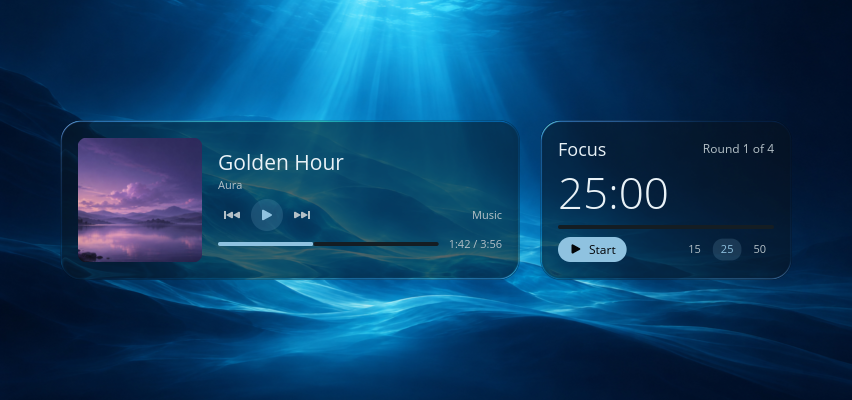
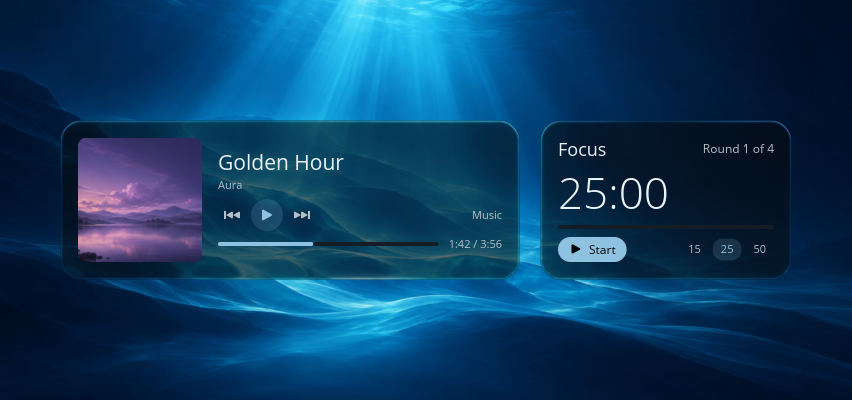
fix(widgets): give Crystal glass a curved, scene-lit edge

diff --git a/src/rain/tests.rs b/src/rain/tests.rs
@@ -1469,6 +1469,96 @@ fn crystal_keeps_music_and_focus_aligned_on_light_and_dark_wallpaper() {
 }
 
 #[test]
+fn crystal_reflects_and_bends_a_wallpaper_stripe_at_each_display_scale() {
+    if std::env::var_os("HALCYON_RAIN_GPU_TEST").is_none() {
+        return;
+    }
+    let (width, height) = (256, 160);
+    // A gold diagonal crosses the left edge at (48, 80). Bending it inward
+    // moves its intersection with a vertical scan line measurably downward.
+    let wallpaper = image::RgbaImage::from_fn(width, height, |x, y| {
+        if (y as i32 - x as i32 - 32).abs() <= 2 {
+            image::Rgba([240, 188, 64, 255])
+        } else {
+            image::Rgba([16, 18, 48, 255])
+        }
+    });
+    let scene = gpu::Scene::new(crate::desktop::wallpaper::media::Pixels {
+        width,
+        height,
+        rgba: wallpaper.into_raw(),
+    });
+    scene.set_panes(gpu::Panes {
+        rects: vec![[48. / 256., 24. / 160., 160. / 256., 112. / 160.]],
+        radius: 20. / 160.,
+        ..Default::default()
+    });
+    let view = |refraction| -> cosmic::Element<'_, ()> {
+        cosmic::iced::widget::Shader::new(gpu::Program {
+            scene: scene.clone(),
+            preferences: Preferences {
+                enabled: true,
+                effect: Effect::Lens,
+                glass: Some(Glass::default().preset(GlassMode::Crystal)),
+                widget_glass: true,
+                refraction,
+                ..Default::default()
+            },
+            fixed_time: Some(0.),
+            running: false,
+            fade: Default::default(),
+        })
+        .width(Length::Fill)
+        .height(Length::Fill)
+        .into()
+    };
+    let mut ui = crate::native_test::Native::with_backend(Size::new(256., 160.), "wgpu");
+    let theme = cosmic::Theme::dark();
+    let shifts = [1., 1.5, 2.].map(|scale| {
+        let flat = ui.render_scaled(view(0), &theme, scale);
+        let bent = ui.render_scaled(view(100), &theme, scale);
+        let gold_at = |frame: &[u8], x: f64, row: usize| {
+            let stride = (256. * scale) as usize;
+            let column = (x * scale) as usize;
+            let i = 4 * (row * stride + column);
+            frame[i].saturating_sub(frame[i + 2])
+        };
+        // Farther up the bevel the diagonal is entirely outside the pane.
+        // Its reflected gold should only appear next to that stretch of wallpaper.
+        let reflected = ((52. * scale) as usize..(73. * scale) as usize)
+            .map(|y| gold_at(&flat, 49.5, y))
+            .max()
+            .unwrap();
+        assert!(reflected > 30, "missing colored reflection at {scale}×");
+        assert_eq!(gold_at(&flat, 49.5, (101. * scale) as usize), 0);
+        let stripe_y = |frame: &[u8], x: f64, middle: f64| {
+            let mut moment = 0.;
+            let mut sum = 0.;
+            for row in ((middle - 9.) * scale) as usize..((middle + 12.) * scale) as usize {
+                let gold = f64::from(gold_at(frame, x, row));
+                sum += gold;
+                moment += gold * (row as f64 + 0.5) / scale;
+            }
+            assert!(sum > 0., "missing gold stripe at {x} and {scale}×");
+            moment / sum
+        };
+        let shift = stripe_y(&bent, 54.5, 86.) - stripe_y(&flat, 54.5, 86.);
+        assert!(
+            shift > 2.,
+            "stripe bent only {shift:.2} logical pixels at {scale}×"
+        );
+        assert_eq!(stripe_y(&bent, 81., 113.), stripe_y(&flat, 81., 113.));
+        shift
+    });
+    for shift in &shifts[1..] {
+        assert!(
+            (shift - shifts[0]).abs() < 1.,
+            "inconsistent logical displacements {shifts:?}"
+        );
+    }
+}
+
+#[test]
 fn widget_glass_refracts_only_inside_rounded_panes() {
     if std::env::var_os("HALCYON_RAIN_GPU_TEST").is_none() {
         return;

diff --git a/src/rain/gpu.rs b/src/rain/gpu.rs
@@ -1237,7 +1237,11 @@ impl shader::Primitive for Primitive {
             bounds.width / bounds.height.max(1.),
             self.time,
             f32::from(amount) / 100.,
-            f32::from(size) / 100.,
+            if p.effect == Effect::Lens {
+                scale
+            } else {
+                f32::from(size) / 100.
+            },
             f32::from(speed) / 100.,
             f32::from(wind) / 100.,
             f32::from(p.mist) / 100.,

diff --git a/docs/DESKTOP-CUSTOMIZATION-PLAN.md b/docs/DESKTOP-CUSTOMIZATION-PLAN.md
@@ -12,7 +12,9 @@ Reviewed on 2026-11-19. All five features are implemented. The table links to ca
 
 ## Findings and decisions
 
-**Glass.** The reference image shows undisturbed wallpaper in the center and a reflection of the surroundings at the curved edge. The GNOME implementation samples wallpaper aligned with the window and includes scenery beyond the rim. Halcyon’s optional **Crystal** finish uses its existing wallpaper texture and a narrow refracting shoulder. The default has zero blur, 30% surface opacity and a subtle tint inherited from the theme. Its edge is static when the pointer moves. The editor previews the selected widget and the draft optics together. [Reference renderer](https://raw.githubusercontent.com/xnoviiq/MacOS-26-Gnome/main/extensions/liquidglass-widgets%40local/lib/glass.js) · [Dark wallpaper](screenshots/desktop-customization/crystal-dark.png) · [Bright wallpaper](screenshots/desktop-customization/crystal-light.png) · [Sunset](screenshots/desktop-customization/crystal-sunset.png)
+**Glass.** The optional **Crystal** finish keeps the wallpaper aligned through the flat face. A curved shoulder bends the scenery near the edge and picks up the color just outside it. The shoulder follows the corner radius and keeps its width in logical pixels across display scales. At zero blur, the renderer reuses the wallpaper sample across the face. It samples the reflected scenery only in the shoulder. The default has zero blur, 30% surface opacity and a subtle tint inherited from the theme. The reflection stays still when the pointer moves. The editor previews the selected widget with the draft finish. [Reference renderer](https://raw.githubusercontent.com/xnoviiq/MacOS-26-Gnome/main/extensions/liquidglass-widgets%40local/lib/glass.js) · [Dark wallpaper](screenshots/desktop-customization/crystal-dark.png) · [Bright wallpaper](screenshots/desktop-customization/crystal-light.png) · [Sunset](screenshots/desktop-customization/crystal-sunset.png)
+
+The before-and-after captures show the native 320 × 240 Messages widget at 30% opacity and 85% edge refraction. Both use the same unobstructed crop of the README feather illustration as wallpaper. [Previous Crystal](screenshots/desktop-customization/crystal-feather-before.webp) · [Revised Crystal](screenshots/desktop-customization/crystal-feather.webp)
 
 **Peek.** A full-width tray hid too much of the current application. The tray now fits the selected cards and pages through larger selections. A live test opened Peek above a focused GTK editor, started the Focus timer, dismissed Peek with Escape and typed into the editor again. The same session completed 25 open/close cycles. Hidden cards can supply their data while Peek is open. Notes edits use the overlay’s keyboard focus.
 

diff --git a/README.md b/README.md
@@ -63,11 +63,11 @@ Save, combine, import and export wallpapers, styles and layouts. Rules can switc
 
 ## 7. Clock depth and rain on glass
 
-**Crystal** reveals the wallpaper through the widget. **Frosted** softens it, **Liquid lens** bends it along the edges, and **Rain** adds moving droplets.
+With **Crystal** glass, a bright line in your wallpaper bends around the widget’s edge and lends the rim its color. The wallpaper stays aligned behind the text. **Frosted** softens the view, and **Rain** adds moving droplets.
 
 [![Illustration of the Messages widget in Crystal glass with a luminous violet feather visible through it](docs/presentation/078-readme/crystal-glass.webp)](docs/presentation/078-readme/crystal-glass.webp)
 
-Open **Weather effects → Widget glass** to adjust frost, refraction, tint and corners. Share a named finish across widgets or give one its own copy. [Compare native Crystal and Frosted glass](docs/screenshots/078/README.md#glass-finishes)
+Open **Weather effects → Widget glass** to adjust frost, refraction, tint and corners. Share a named finish across widgets or give one its own copy. [See Crystal on the native Messages widget](docs/screenshots/desktop-customization/crystal-feather.webp) · [Compare Crystal and Frosted](docs/screenshots/078/README.md#glass-finishes)
 
 The clock can sit behind the mountains in the wallpaper, between the sky and the ridge. It stays behind the ridge when effects are on, with rain on glass in front of the clock and landscape.
 
